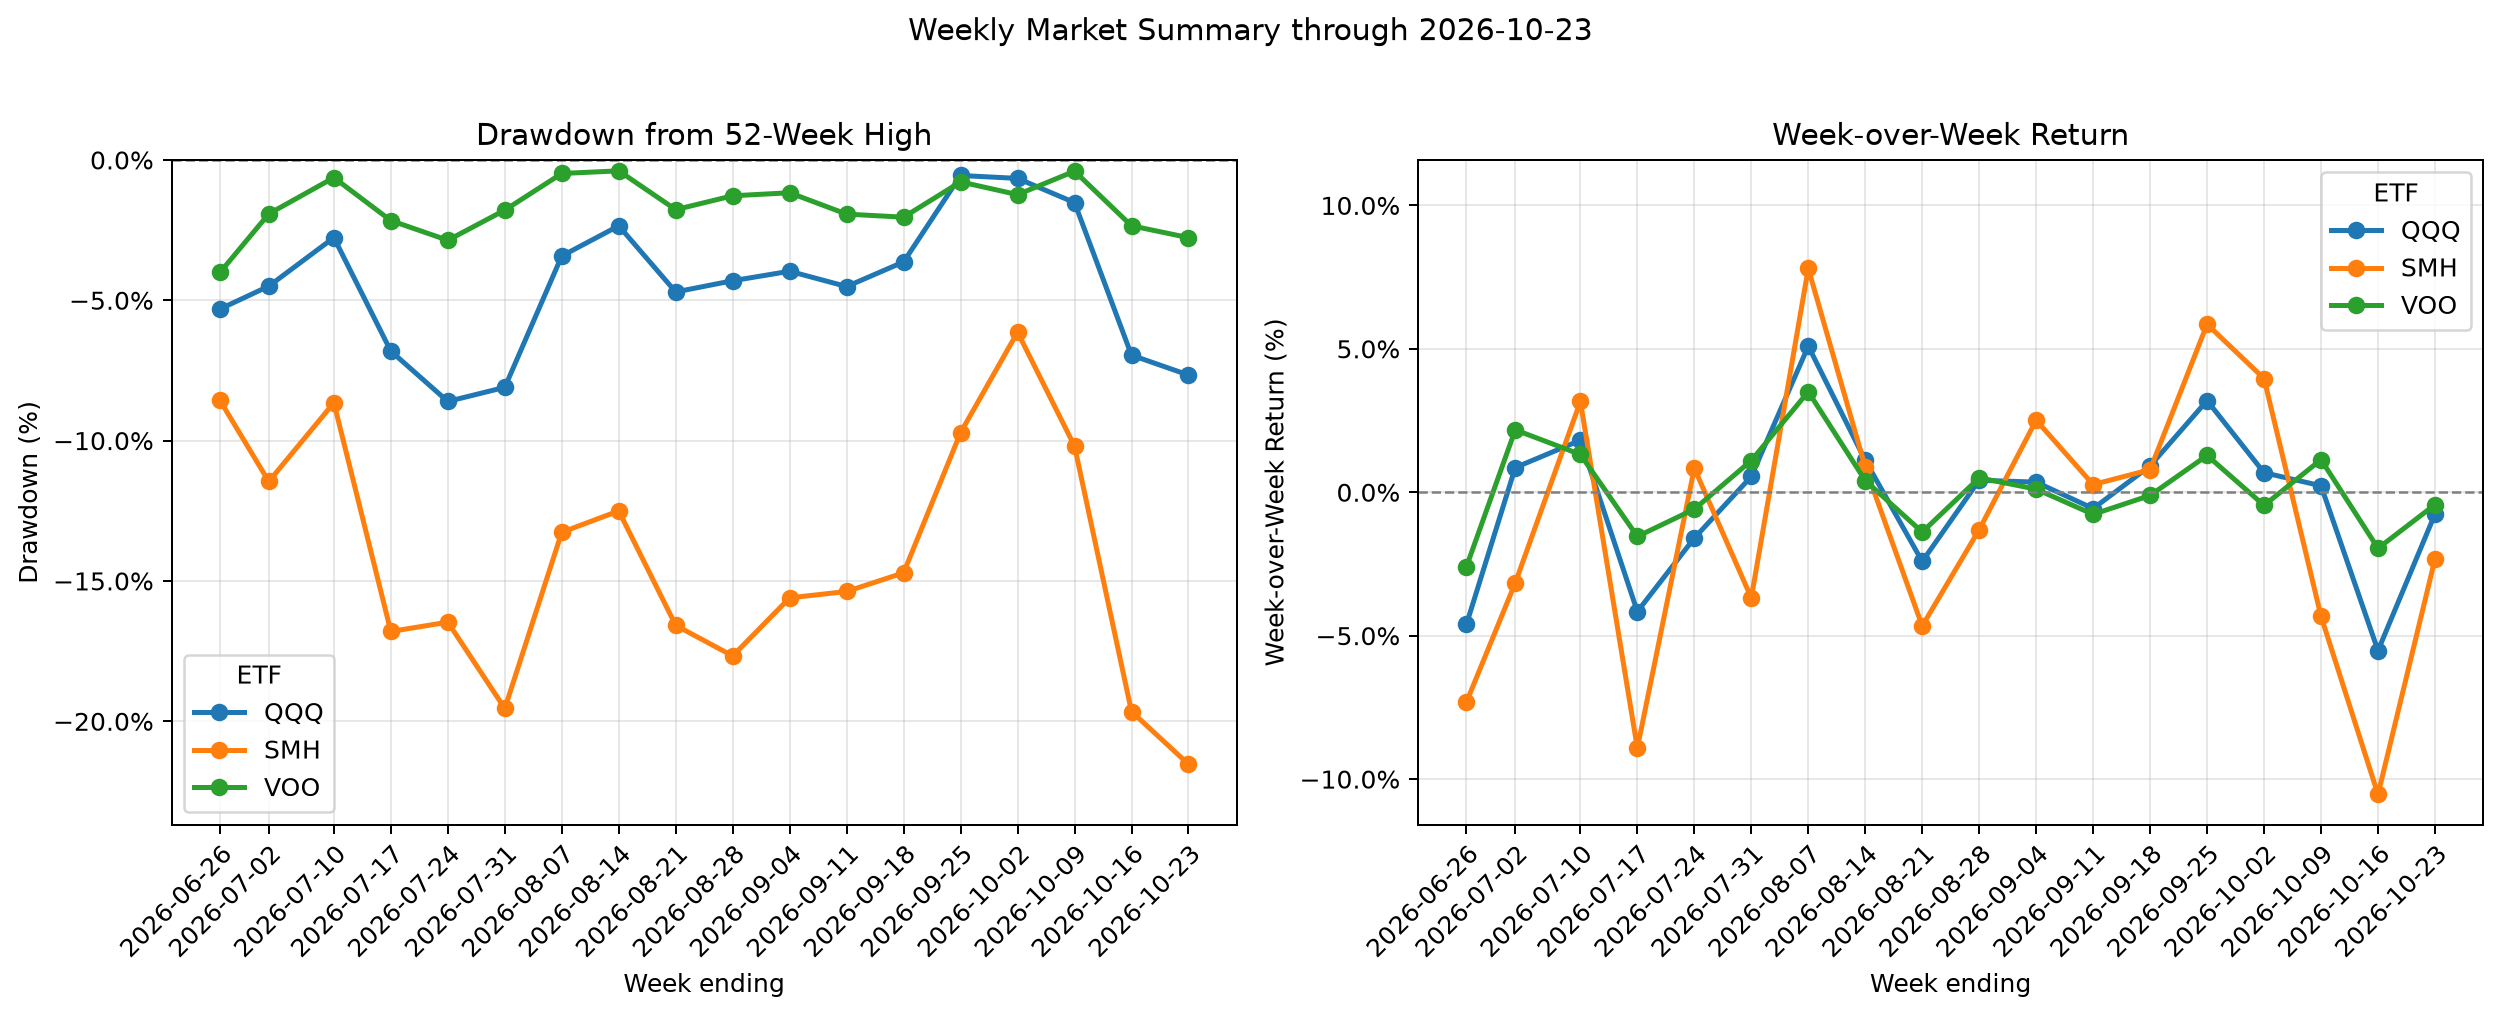
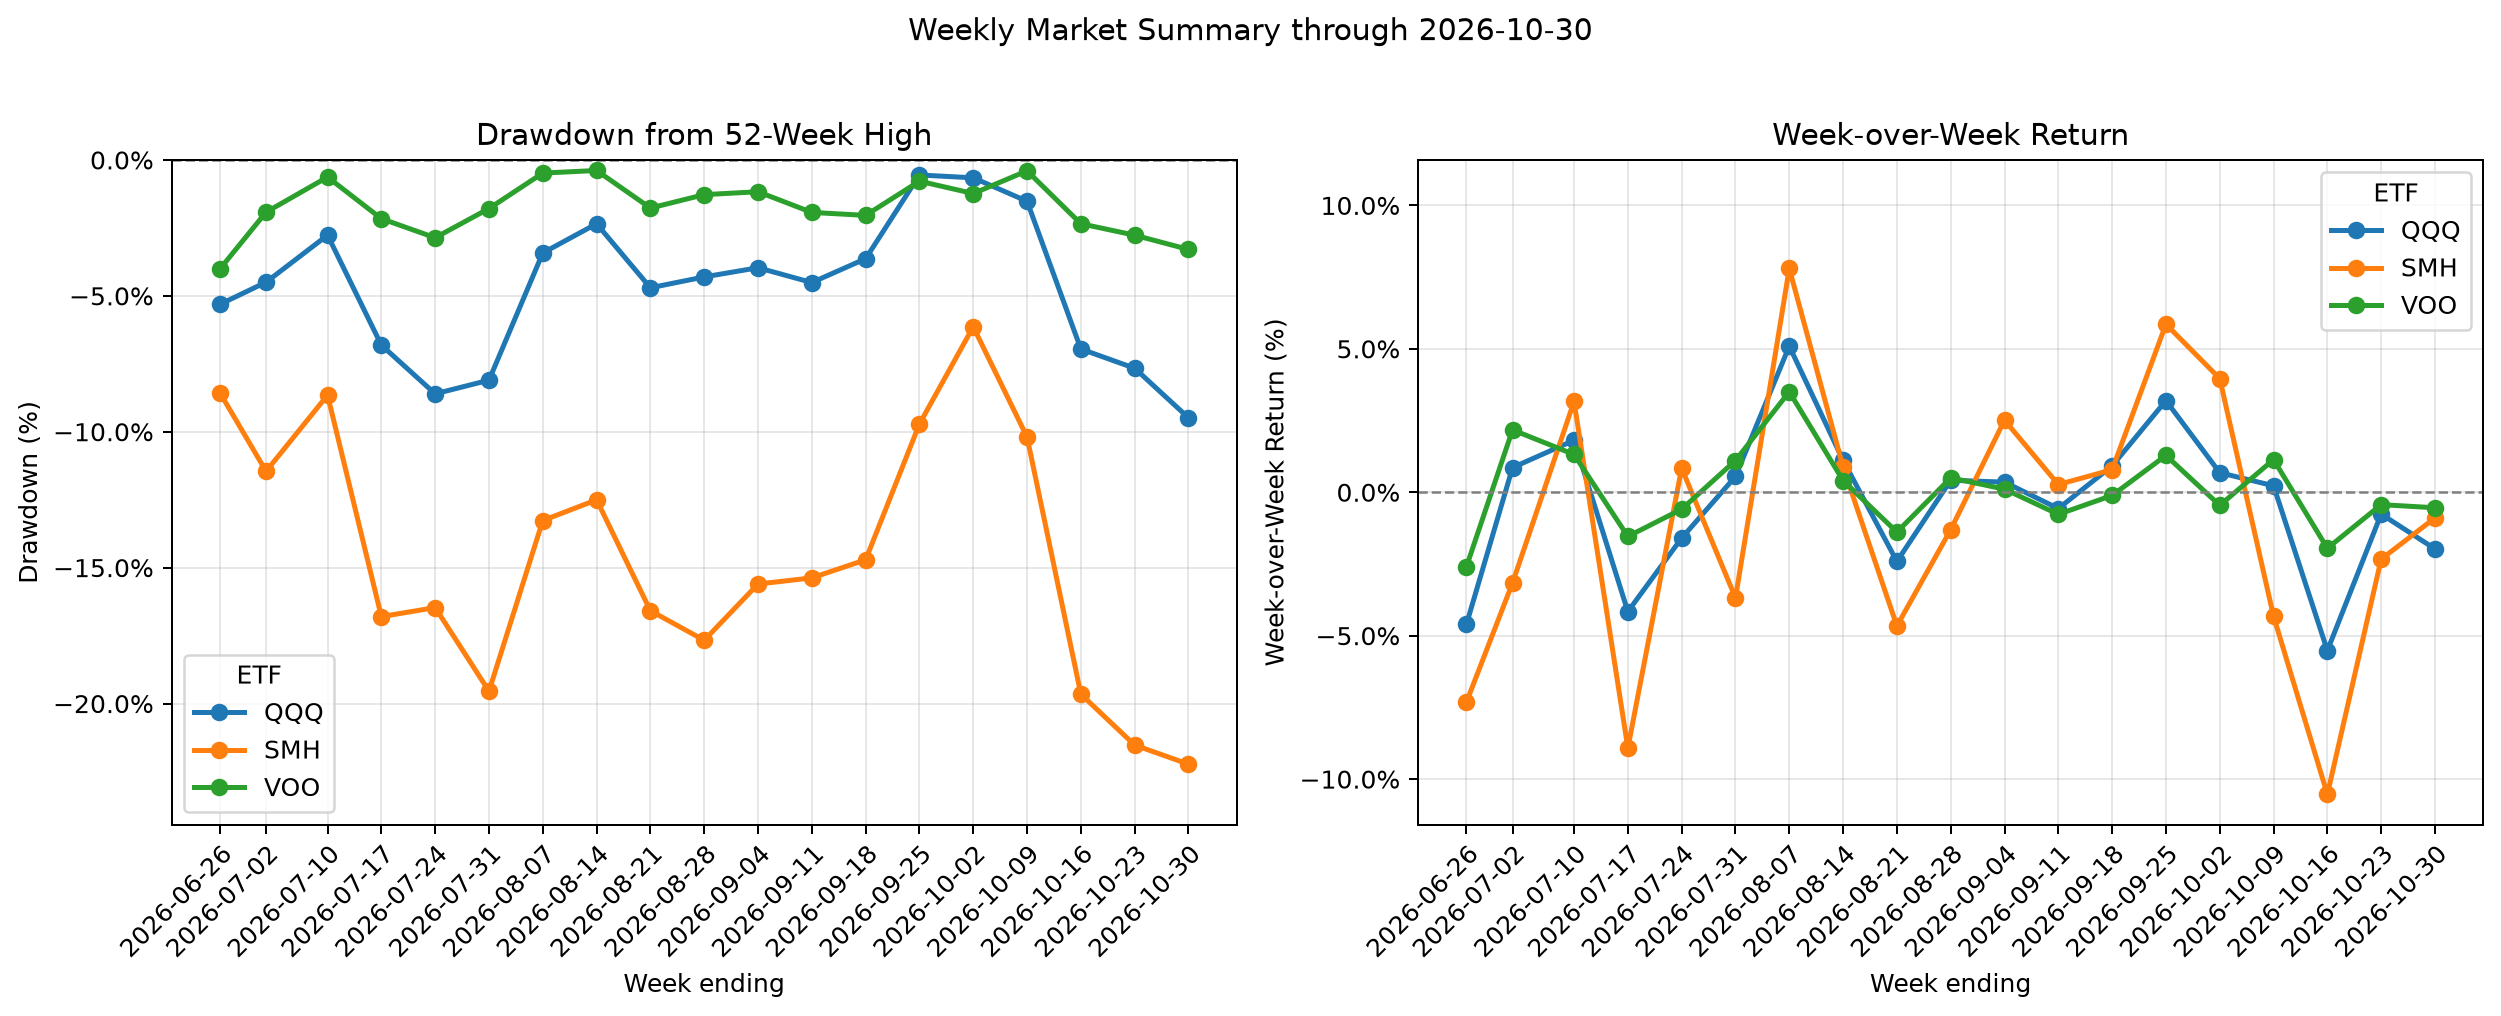
Publish weekly market report for October 30, 2026

diff --git a/_pages/follow-the-market-with-will.md b/_pages/follow-the-market-with-will.md
@@ -101,7 +101,7 @@ This dashboard combines two complementary metrics.
 
 ### Drawdown
 
-Drawdown measures how far an ETF's closing price is below its highest closing price during the previous 52 weeks.
+Drawdown measures how far an ETF's closing price is below the selected 52-week high. Current reports use the highest intraday price during the trailing 365 days; earlier observations may use closing-price highs.
 
 It answers a simple question:
 
